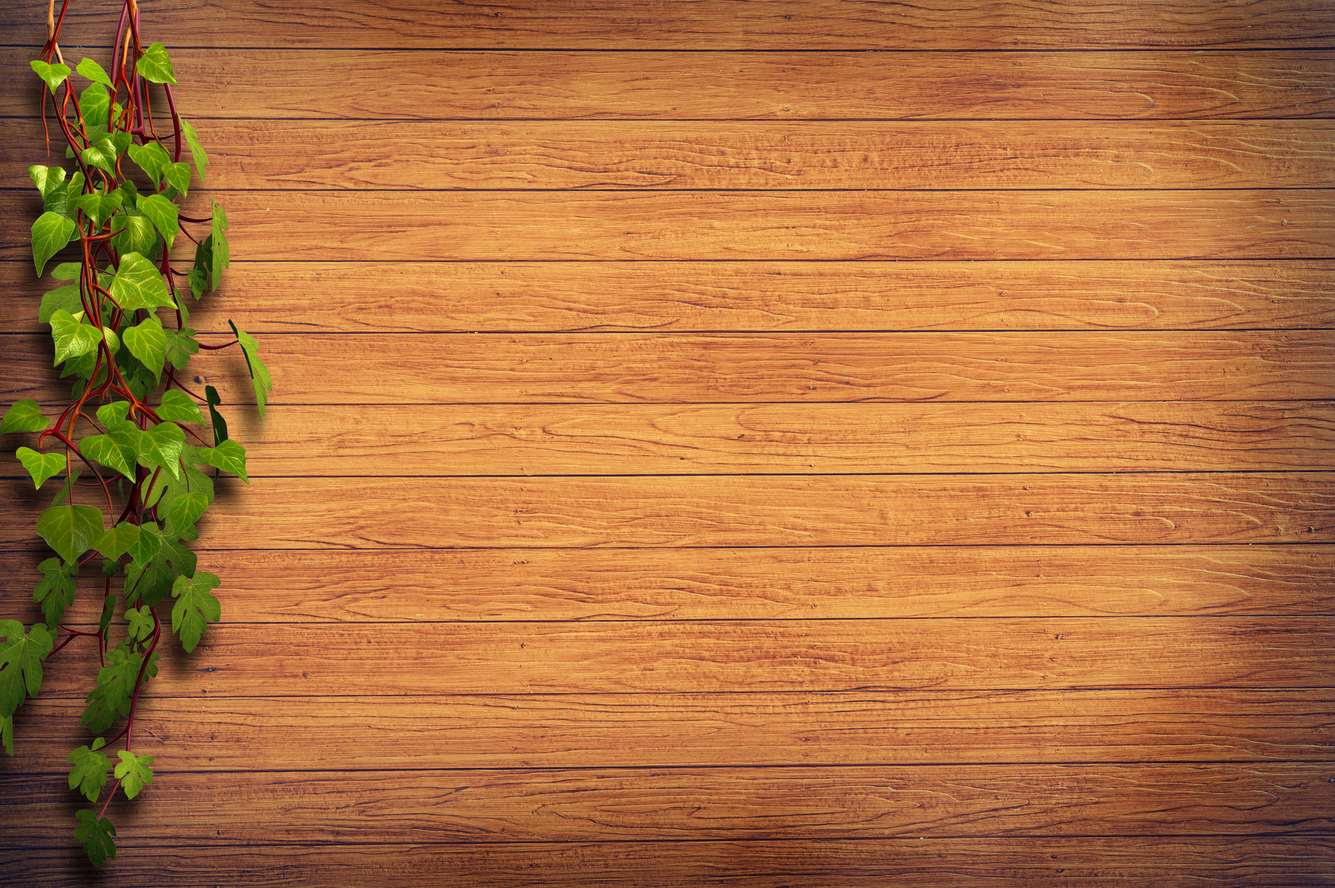
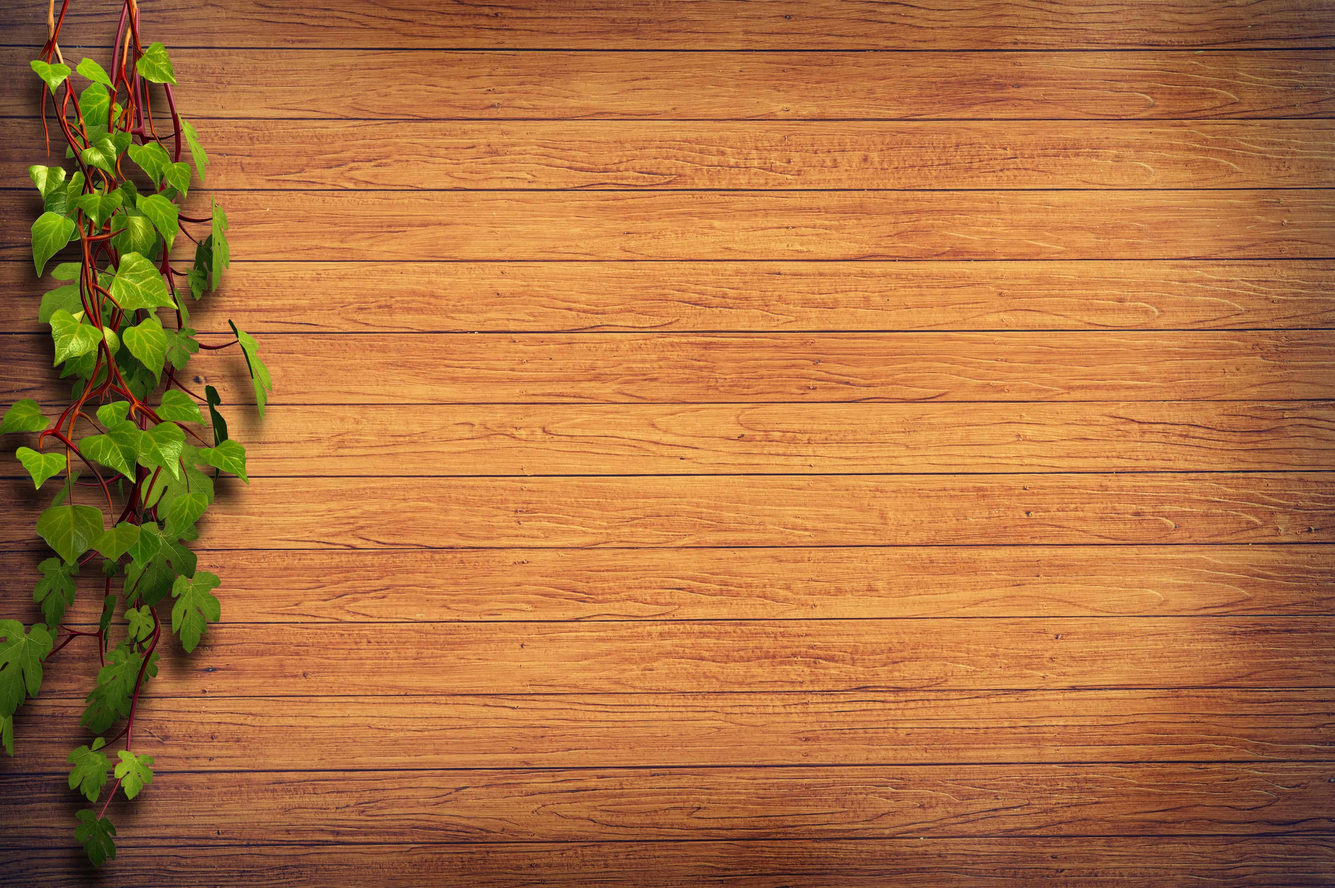
press some imgs

Changed region(s): [[0.0625, 0.1864, 0.0938, 0.2175], [0.0312, 0.1243, 0.0625, 0.1554]]

diff --git a/style.css b/style.css
@@ -109,7 +109,7 @@ header{
     background-repeat: no-repeat;
 }
 .bg1{
-    background-image: url(media/goc-ban-an.jpg);
+    background-image: url(media/goc-ban-an-pressed.jpg);
 }
 .bg2{
     background-image: url(media/ban-an-lon-screen.jpg);
